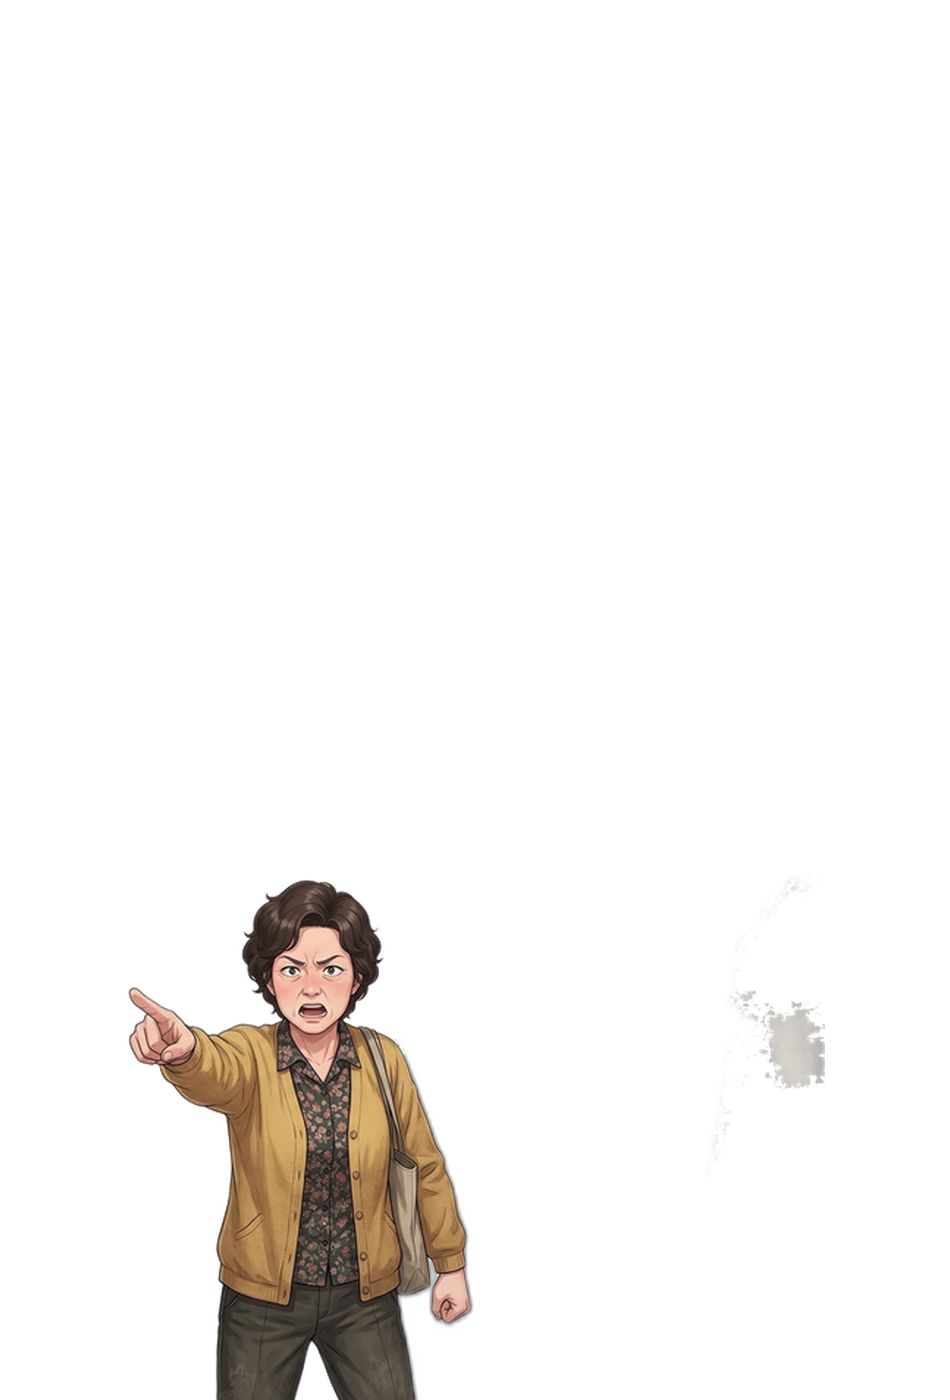
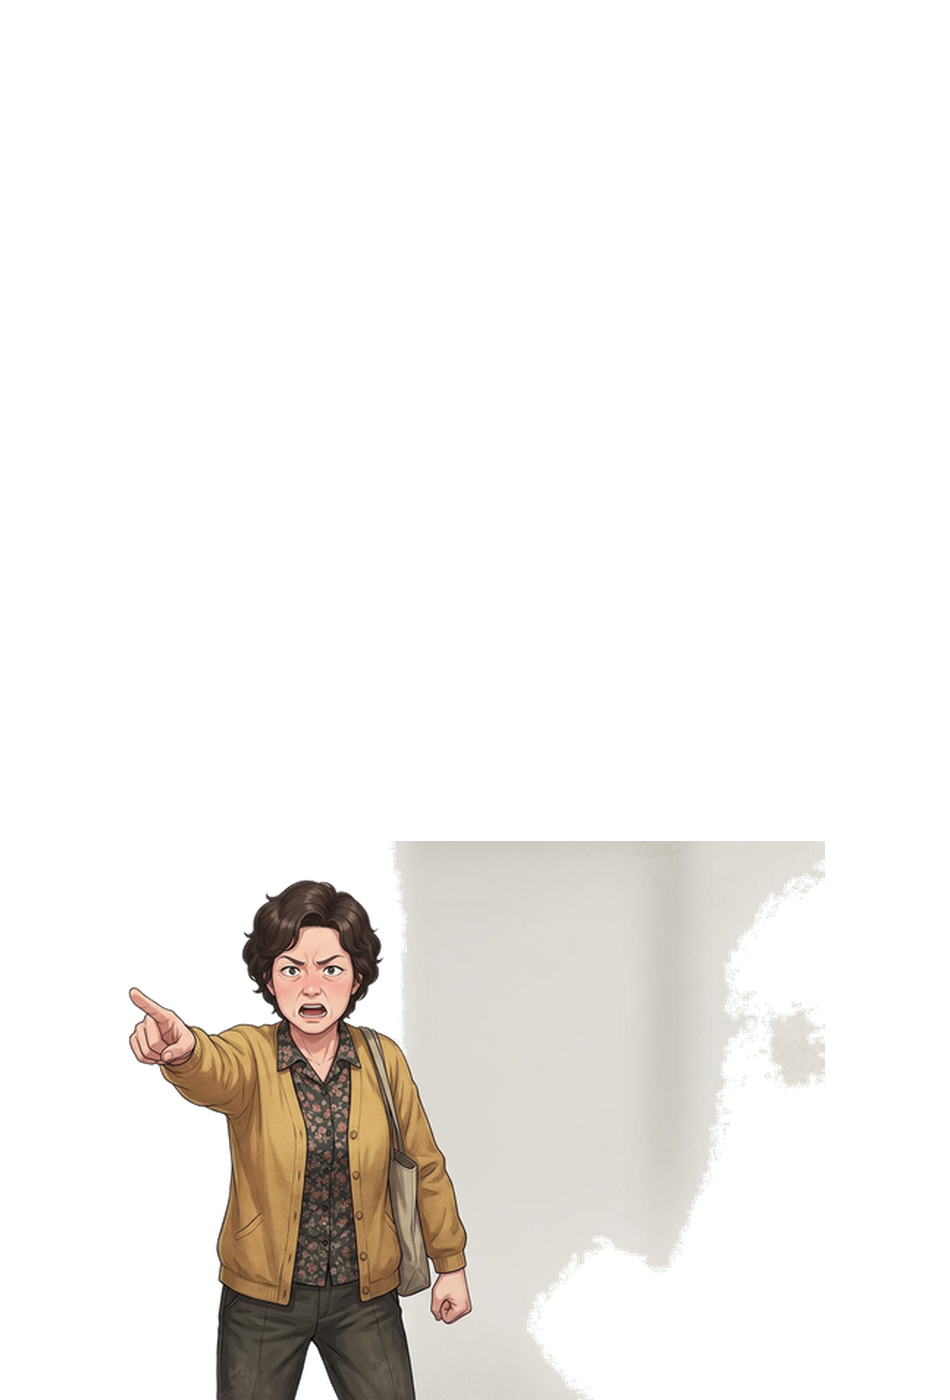
fix: 이미지 로컬 서빙으로 변경 (행정망 차단 해결)
- 배경/캐릭터 이미지를 raw.githubusercontent.com에서 public/novel/로 이전
- story.ts: BG_URL, CHAR_URL을 로컬 경로(/novel/bg/, /novel/chars/)로 변경
- public/novel/bg/ 에 배경 이미지 6개 추가
- public/novel/chars/ 에 캐릭터 이미지 추가

Changed region(s): [[0.3968, 0.5836, 0.8853, 1.0], [0.8547, 0.7371, 0.8853, 0.7679]]

diff --git a/app/novel/story.ts b/app/novel/story.ts
@@ -37,11 +37,11 @@ export const CHAR_INFO: Record<CharId, { name: string; color: string }> = {
   buddy:         { name: '동기',    color: '#d0ffd8' },
 };
 
-const RAW = 'https://raw.githubusercontent.com/GnuDaSsa/AI/feature/novel-lab-initial/novel-lab/renpy/game/images';
-export const BG_URL = (name: string) => `${RAW}/bg/${name}.png`;
-const LOCAL_CHARS = new Set<CharId>(['caller', 'caller_ice', 'caller_spring']);
-export const CHAR_URL = (id: CharId) =>
-  LOCAL_CHARS.has(id) ? `/novel/chars/${id}_default.png` : `${RAW}/chars/${id}_default.png`;
+
+export const BG_URL = (name: string) => `/novel/bg/${name}.png`;
+
+
+export const CHAR_URL = (id: CharId) => `/novel/chars/${id}_default.png`;
 
 // ── 엔딩 분기 헬퍼 ────────────────────────────────────────────────────
 // processToInteractive에서는 변수를 직접 읽을 수 없으므로,
